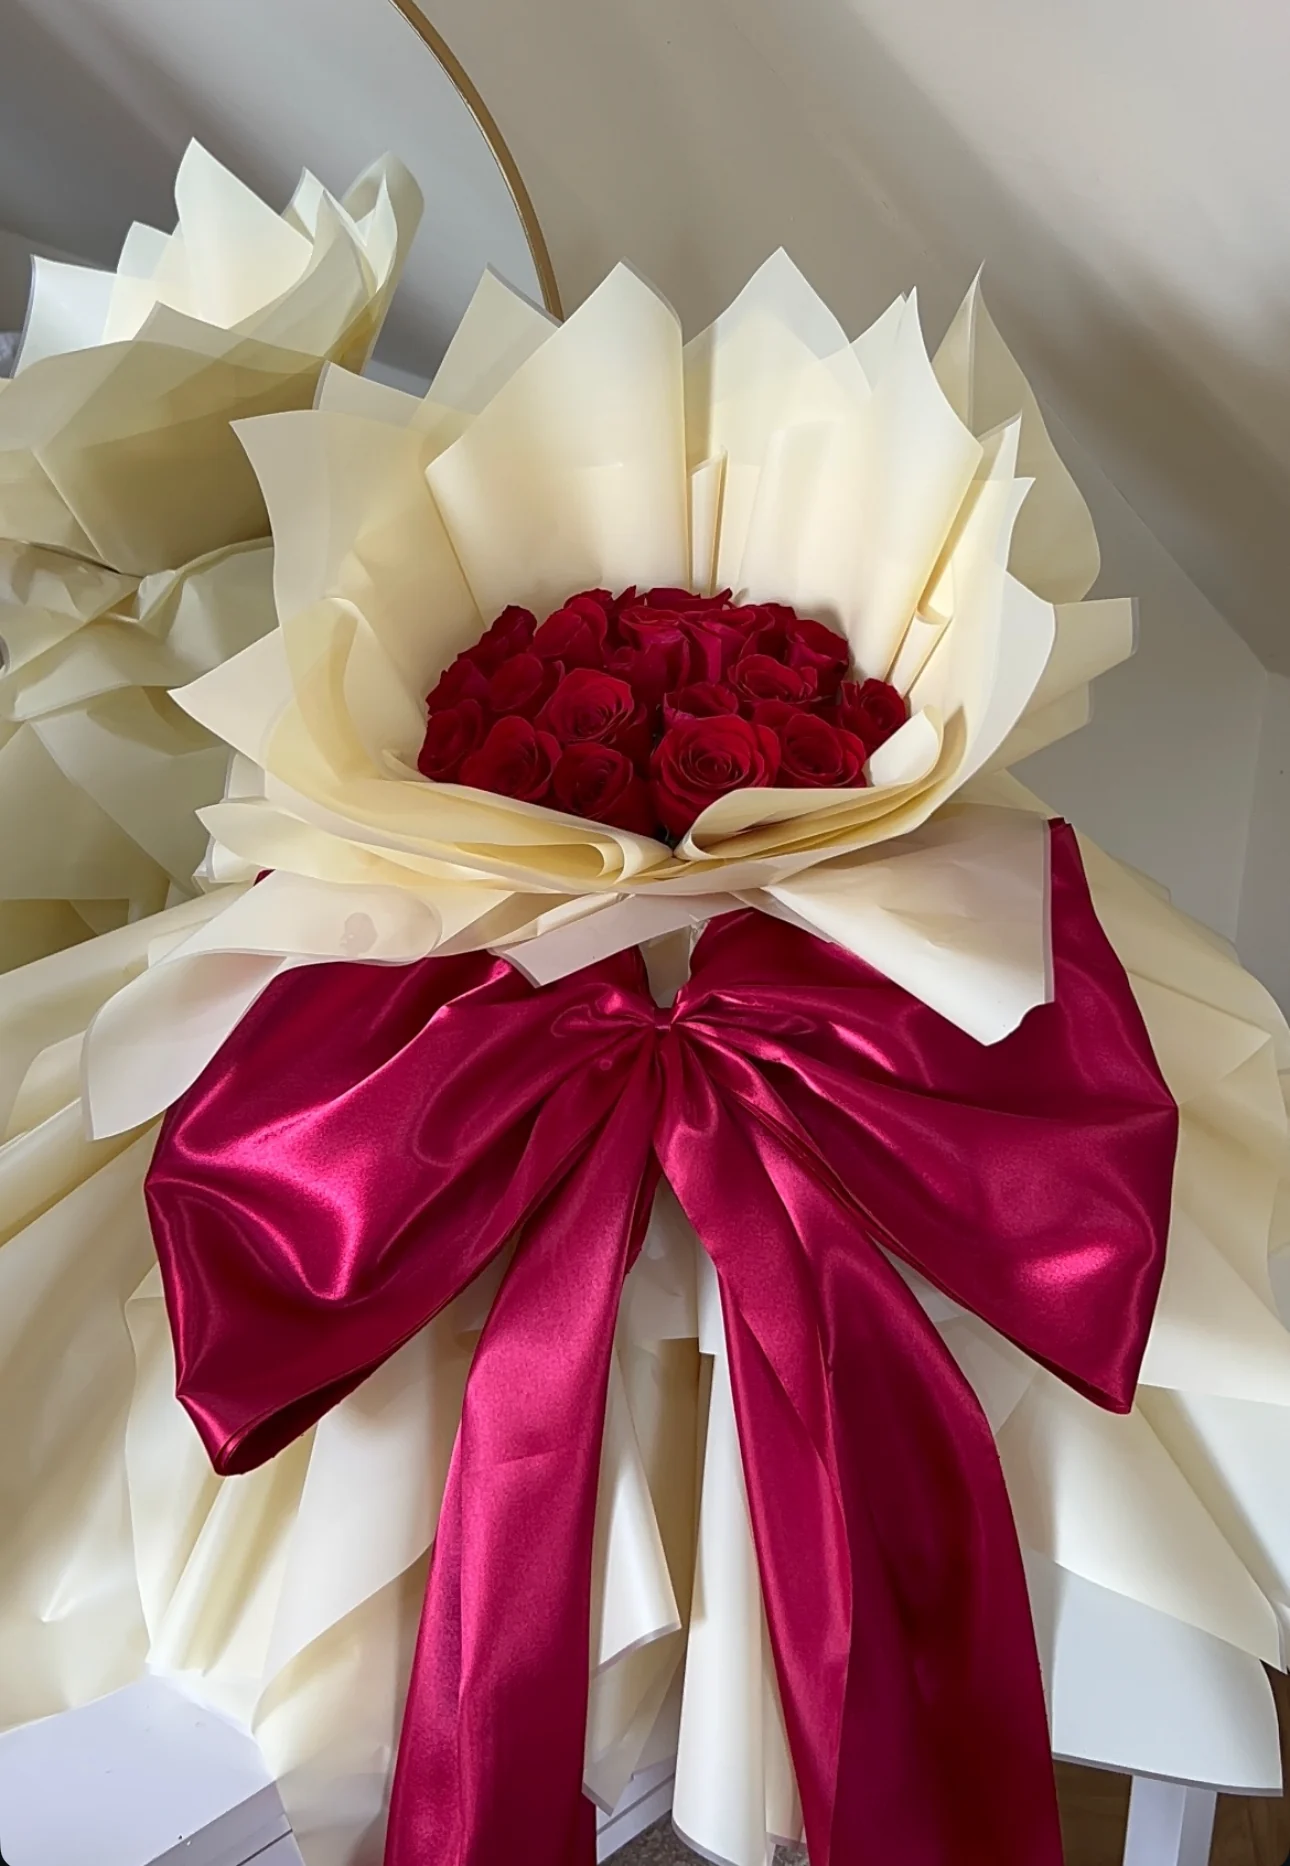
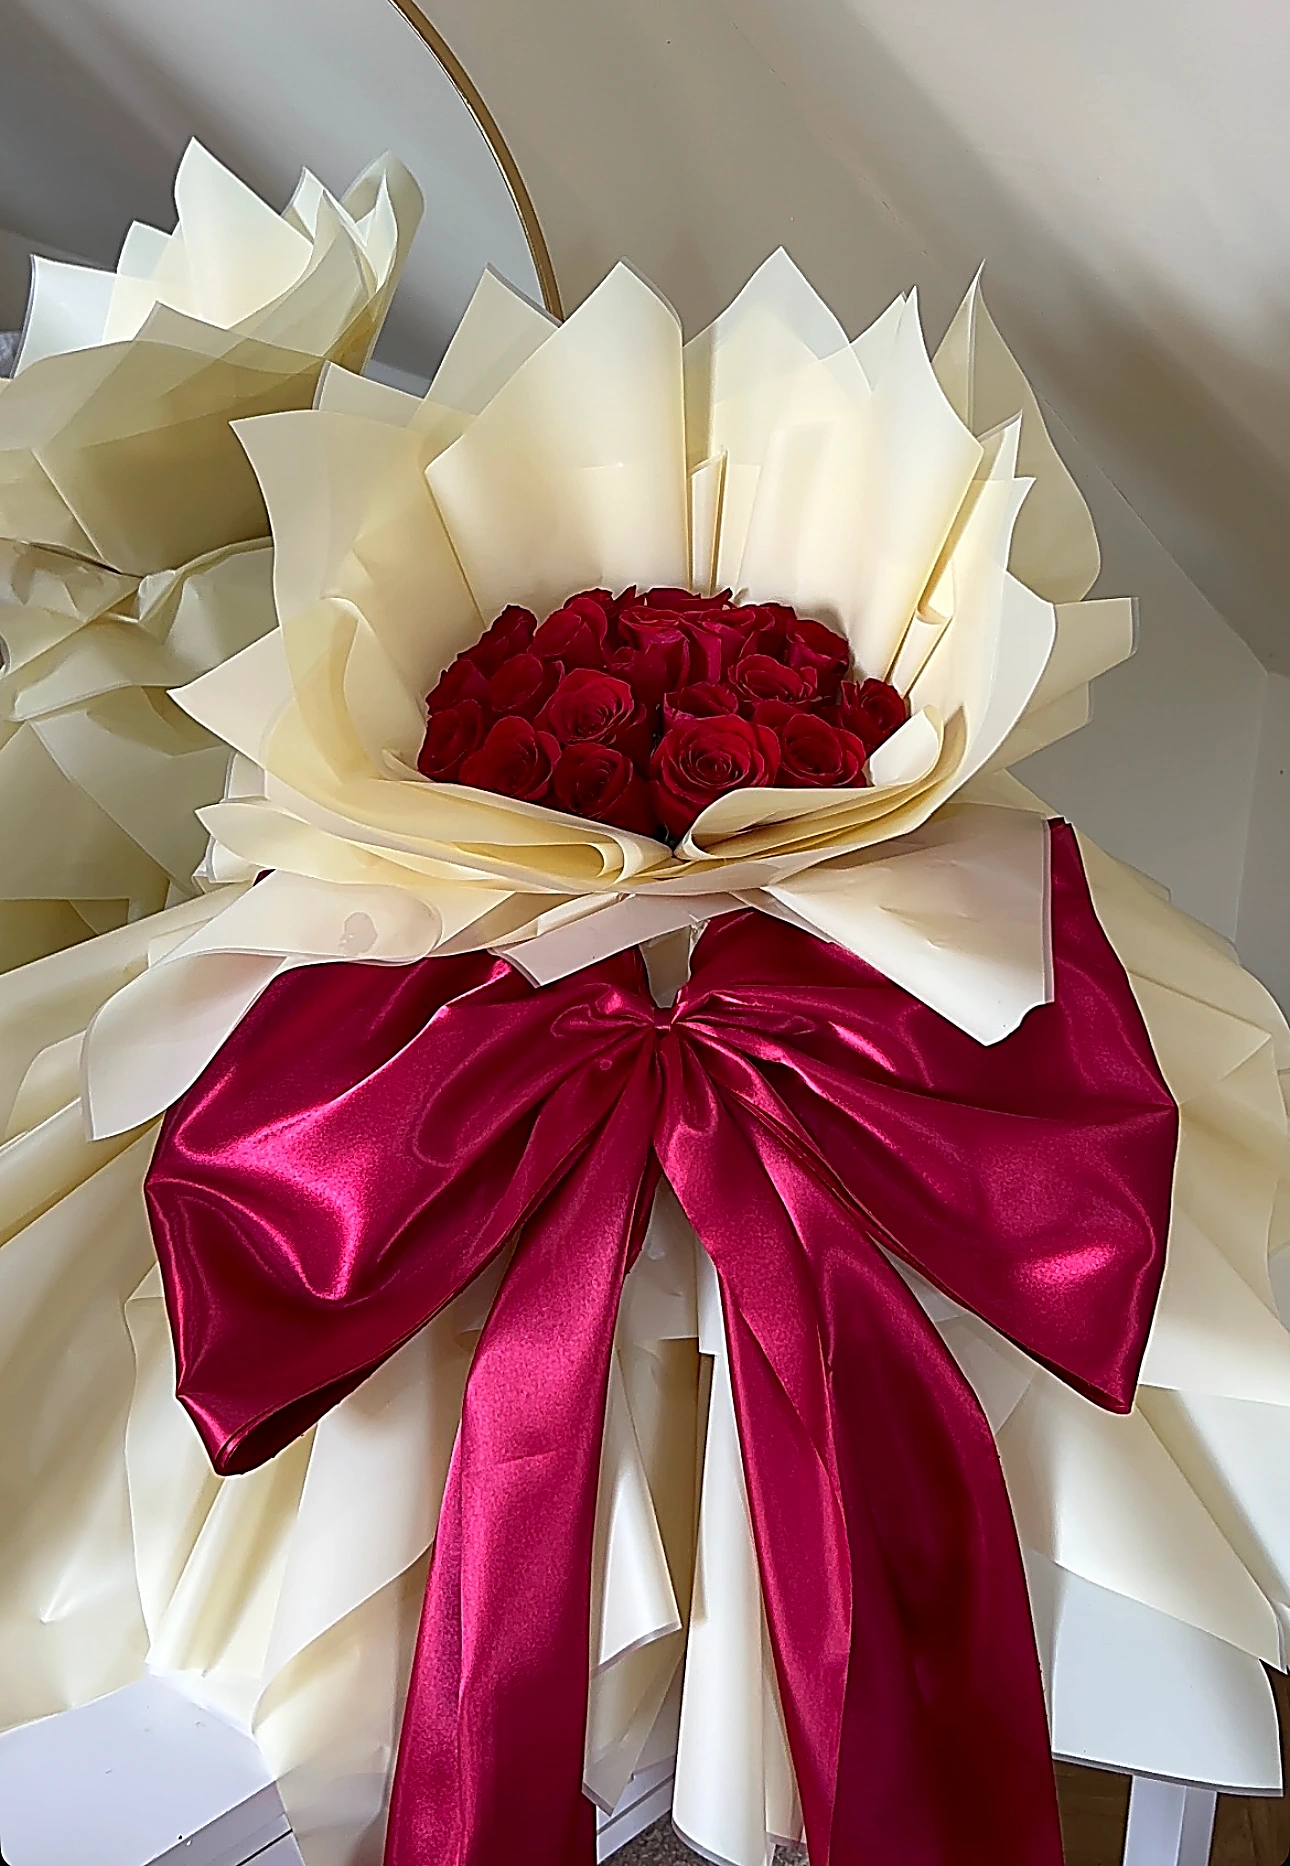
The Bespoke Bouquets: sharpen the two Skirt Bouquet story photos
The white/black and ivory/crimson photos come from story video frames,
so they were soft. Re-cropped from a fresh screenshot, sharpened and
saved at higher quality; image links are versioned so phones fetch them.

Claude-Session: https://claude.ai/code/session_01SrWHoie3RUSVxRUX9dy37k

diff --git a/bespoke-bouquets/index.html b/bespoke-bouquets/index.html
@@ -24,7 +24,7 @@
 <link href="https://fonts.googleapis.com/css2?family=Gilda+Display&family=EB+Garamond:ital,wght@0,400;0,500;0,600;1,400;1,500&display=swap" rel="stylesheet">
 <link rel="preload" as="image" href="/assets/bespoke/logo-ink.svg">
 <link rel="preload" as="image" href="/assets/bespoke/photos/skirt-bouquet.webp">
-<link rel="stylesheet" href="/bespoke-bouquets/style.css?v=202610011700">
+<link rel="stylesheet" href="/bespoke-bouquets/style.css?v=202610011800">
 <script>document.documentElement.classList.add('js');</script>
 
 <script type="application/ld+json">
@@ -638,6 +638,6 @@
 
 <script src="/bespoke-bouquets/petals.js?v=202610011433" defer></script>
 <script src="/assets/vendor/lenis.min.js" defer></script>
-<script src="/bespoke-bouquets/script.js?v=202610011700" defer></script>
+<script src="/bespoke-bouquets/script.js?v=202610011800" defer></script>
 </body>
 </html>

diff --git a/bespoke-bouquets/portfolio.html b/bespoke-bouquets/portfolio.html
@@ -23,7 +23,7 @@
 <link rel="preconnect" href="https://fonts.gstatic.com" crossorigin>
 <link href="https://fonts.googleapis.com/css2?family=Gilda+Display&family=EB+Garamond:ital,wght@0,400;0,500;0,600;1,400;1,500&display=swap" rel="stylesheet">
 <link rel="preload" as="image" href="/assets/bespoke/logo.png">
-<link rel="stylesheet" href="/bespoke-bouquets/style.css?v=202610011700">
+<link rel="stylesheet" href="/bespoke-bouquets/style.css?v=202610011800">
 <script>document.documentElement.classList.add('js');</script>
 
 </head>
@@ -180,6 +180,6 @@
 
 <script src="/bespoke-bouquets/petals.js?v=202610011433" defer></script>
 <script src="/assets/vendor/lenis.min.js" defer></script>
-<script src="/bespoke-bouquets/portfolio.js?v=202610011700" defer></script>
+<script src="/bespoke-bouquets/portfolio.js?v=202610011800" defer></script>
 </body>
 </html>

diff --git a/bespoke-bouquets/script.js b/bespoke-bouquets/script.js
@@ -100,7 +100,7 @@ const OPTION_DEFS = {
   card:   { label: 'Message card', type: 'textarea', max: 160, optional: true, placeholder: 'A few words for the card…' }
 };
 const CAT_LABEL = { signature: 'Signature', personalised: 'Personalised', hatbox: 'Hatboxes & balloons', gifts: 'Gifts & hampers', bridal: 'Weddings & nikkahs' };
-const IMG = n => `/assets/bespoke/photos/${n}.webp`;
+const IMG = n => `/assets/bespoke/photos/${n}.webp?v=2`;
 const LOGO = '/assets/bespoke/rose-ink.svg';
 
 /* ------------------------------ helpers ------------------------------ */
